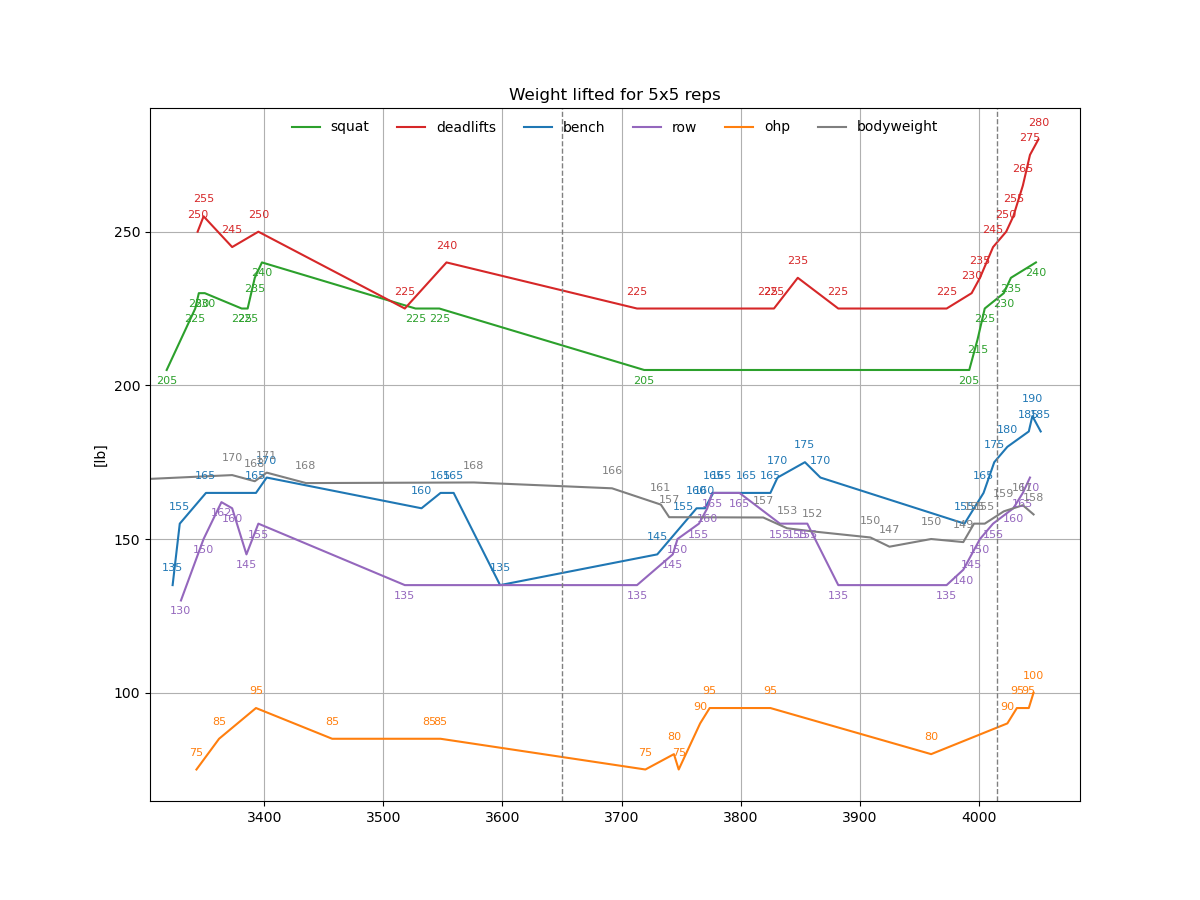
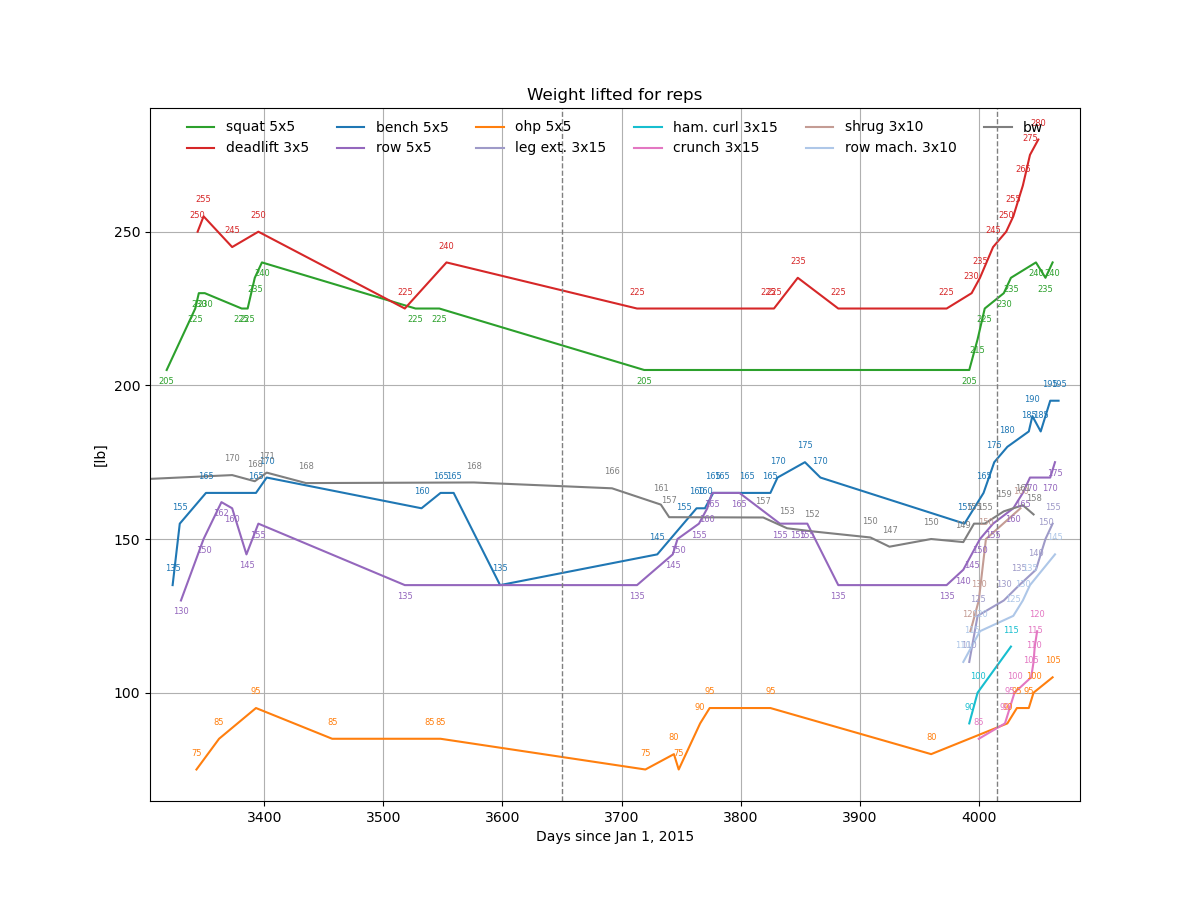
error flag bug fix

diff --git a/lifting.py b/lifting.py
@@ -114,6 +114,8 @@ squats={
     "Jan 6 2026":5*5*230,
     "Jan 12 2026":5*5*235,
     "Feb 2 2026":5*5*240,
+    "Feb 10 2026":5*5*235,
+    "Feb 16 2026":5*5*240,
     }
 squats5x5={
     "Feb 2 2024":(5*5*205)/25,
@@ -133,6 +135,8 @@ squats5x5={
     "Jan 6 2026":5*5*230/25,
     "Jan 12 2026":5*5*235/25,
     "Feb 2 2026":5*5*240/25,
+    "Feb 10 2026":5*5*235/25,
+    "Feb 16 2026":5*5*240/25,
     }
 
 bench={
@@ -216,6 +220,7 @@ bench={
     "Jan 27 2026":5*5*185,
     "Jan 30 2026":5*5*190,
     "Feb 06 2026":5*5*185,
+    "Feb 14 2026":5*5*195,
     }
 bench5x5={
     "Feb 7 2024":(5*5*135)/25,
@@ -245,6 +250,8 @@ bench5x5={
     "Jan 27 2026":5*5*185/25,
     "Jan 30 2026":5*5*190/25,
     "Feb 06 2026":5*5*185/25,
+    "Feb 14 2026":5*5*195/25,
+    "Feb 21 2026":5*5*195/25,
     }
 
 ohp={
@@ -331,6 +338,7 @@ ohp={
     "Jan 17 2026":5*5*95,
     "Jan 27 2026":5*5*95,
     "Jan 31 2026":5*5*100,
+    "Feb 16 2026":5*5*105,
     }
 ohp5x5={
     "Feb 27 2024":(5*5*75)/25, #doctored this number a bit
@@ -350,6 +358,7 @@ ohp5x5={
     "Jan 17 2026":5*5*95/25,
     "Jan 27 2026":5*5*95/25,
     "Jan 31 2026":5*5*100/25,
+    "Feb 16 2026":5*5*105/25,
     }
 
 deadlifts={
@@ -489,6 +498,8 @@ row={
     "Jan 14 2026":5*5*160,
     "Jan 22 2026":5*5*165,
     "Jan 28 2026":5*5*170,
+    "Feb 14 2026":5*5*170,
+    "Feb 18 2026":5*5*175,
     }
 row5x5={
     "Feb 14 2024":(5*5*130)/25, #doctored this number a bit
@@ -517,6 +528,8 @@ row5x5={
     "Jan 14 2026":5*5*160/25,
     "Jan 22 2026":5*5*165/25,
     "Jan 28 2026":5*5*170/25,
+    "Feb 14 2026":5*5*170/25,
+    "Feb 18 2026":5*5*175/25,
     }
 
 dips={
@@ -717,6 +730,56 @@ bodyweight={
     "Jan 31 2026":158,
     }
 
+legextension15x3={
+    "Dec 8 2025": 15*3*110/45,
+    "Dec 15 2025": 15*3*125/45,
+    "Jan 6 2026": 15*3*130/45,
+    "Jan 19 2026": 15*3*135/45,
+    "Feb 2 2026": 15*3*140/45,
+    "Feb 10 2026": 15*3*150/45,
+    "Feb 16 2026": 15*3*155/45,
+    }
+
+hamstringcurl15x3={
+    "Dec 8 2025": 15*3*90/45,
+    "Dec 15 2025": 15*3*100/45,
+    "Jan 12 2026": 15*3*115/45,
+    }
+
+# lateralraise15x3={
+#     "Dec 8 2025": 15*3*15/45, #fake number, but approx equivalent strength
+#     "Dec 25 2025": 15*3*20/45,
+#     "Jan 31 2026": 15*3*24/45,
+#     }
+
+cablecrunch15x3={
+    "Dec 16 2025": 15*3*85/45,
+    "Jan 7 2026": 15*3*90/45,
+    "Jan 11 2026": 15*3*95/45,
+    "Jan 15 2026": 15*3*100/45,
+    "Jan 29 2026": 15*3*105/45,
+    "Jan 31 2026": 15*3*110/45,
+    "Feb 1 2026": 15*3*115/45,
+    "Feb 3 2026": 15*3*120/45,
+    }
+
+shrugs10x3={
+    "Dec 9 2025": 10*3*120/30,
+    "Dec 16 2025": 10*3*130/30,
+    "Dec 22 2025": 10*3*150/30,
+    "Jan 20 2026": 10*3*160/30,
+    }
+rowmachine10x3={
+    "Dec 3 2025": 10*3*110/30,
+    "Dec 10 2025": 10*3*115/30,
+    "Dec 17 2025": 10*3*120/30,
+    "Jan 14 2026": 10*3*125/30,
+    "Jan 22 2026": 10*3*130/30,
+    "Jan 28 2026": 10*3*135/30,
+    "Jan 28 2026": 10*3*135/30,
+    "Feb 18 2026": 10*3*145/30,
+    }
+
 xrange=[3+365*9,170+365*11]
 colours=['#2ca02c','#d62728','#1f77b4','#9467bd','#ff7f0e','#7f7f7f','#9e9ac8','#17becf','#8c564b']
 
@@ -821,13 +884,25 @@ plt.show()
 f, ax = plt.subplots(1, 1, figsize=(12, 9))
 plt.subplots_adjust(hspace=0.7)
 xrange=[19+365*9,70+365*11]
-colours=['#2ca02c','#d62728','#1f77b4','#9467bd','#ff7f0e','#7f7f7f','#9e9ac8','#17becf','#8c564b']
-ax.plot(date_nums(squats5x5.keys()),squats5x5.values(),label='squat',color=colours[0])
-ax.plot(date_nums(deadlifts5x5.keys()),deadlifts5x5.values(),label='deadlifts',color=colours[1])
-ax.plot(date_nums(bench5x5.keys()),bench5x5.values(),label='bench',color=colours[2])
-ax.plot(date_nums(row5x5.keys()),row5x5.values(),label='row',color=colours[3])
-ax.plot(date_nums(ohp5x5.keys()),ohp5x5.values(),label='ohp',color=colours[4])
-ax.plot(date_nums(bodyweight.keys()),bodyweight.values(),label='bodyweight',color=colours[5])
+# colours=['#2ca02c','#d62728','#1f77b4','#9467bd','#ff7f0e','#7f7f7f','#9e9ac8','#17becf','#8c564b']
+colours = [
+    '#2ca02c', '#d62728', '#1f77b4', '#9467bd', '#ff7f0e',
+    '#7f7f7f', '#9e9ac8', '#17becf', '#8c564b',
+    '#e377c2', '#c49c94', '#aec7e8', '#ff9896', '#98df8a',
+    '#bcbd22'
+]
+ax.plot(date_nums(squats5x5.keys()),squats5x5.values(),label='squat 5x5',color=colours[0])
+ax.plot(date_nums(deadlifts5x5.keys()),deadlifts5x5.values(),label='deadlift 3x5',color=colours[1])
+ax.plot(date_nums(bench5x5.keys()),bench5x5.values(),label='bench 5x5',color=colours[2])
+ax.plot(date_nums(row5x5.keys()),row5x5.values(),label='row 5x5',color=colours[3])
+ax.plot(date_nums(ohp5x5.keys()),ohp5x5.values(),label='ohp 5x5',color=colours[4])
+ax.plot(date_nums(legextension15x3.keys()),legextension15x3.values(),label='leg ext. 3x15',color=colours[6])
+ax.plot(date_nums(hamstringcurl15x3.keys()),hamstringcurl15x3.values(),label='ham. curl 3x15',color=colours[7])
+# ax.plot(date_nums(lateralraise15x3.keys()),lateralraise15x3.values(),label='lateral raise',color=colours[8])
+ax.plot(date_nums(cablecrunch15x3.keys()),cablecrunch15x3.values(),label='crunch 3x15',color=colours[9])
+ax.plot(date_nums(shrugs10x3.keys()),shrugs10x3.values(),label='shrug 3x10',color=colours[10])
+ax.plot(date_nums(rowmachine10x3.keys()),rowmachine10x3.values(),label='row mach. 3x10',color=colours[11])
+ax.plot(date_nums(bodyweight.keys()),bodyweight.values(),label='bw',color=colours[5])
 ax.axvline(x=365, linestyle='--', linewidth=1, color='grey')
 ax.axvline(x=365*2, linestyle='--', linewidth=1, color='grey')
 ax.axvline(x=365*3, linestyle='--', linewidth=1, color='grey')
@@ -840,22 +915,35 @@ ax.axvline(x=365*9, linestyle='--', linewidth=1, color='grey')
 ax.axvline(x=365*10, linestyle='--', linewidth=1, color='grey')
 ax.axvline(x=365*11, linestyle='--', linewidth=1, color='grey')
 ax.set_ylabel("[lb]")
+ax.set_xlabel("Days since Jan 1, 2015")
 # ax.legend(loc="lower right")
 ax.legend(loc="upper center",frameon=False,ncol=6)
 if 'xrange' in locals() or 'xrange' in globals():
     ax.set_xlim(xrange)
-ax.set_title("Weight lifted for 5x5 reps")
+ax.set_title("Weight lifted for reps")
 ax.grid(True)
 for x, y in zip(date_nums(squats5x5.keys()), squats5x5.values()):
-    ax.annotate(int(y), (x, y), textcoords="offset points", xytext=(0,-10), ha='center', fontsize=8,color=colours[0])
+    ax.annotate(int(y), (x, y), textcoords="offset points", xytext=(0,-10), ha='center', fontsize=6,color=colours[0])
 for x, y in zip(date_nums(deadlifts5x5.keys()), deadlifts5x5.values()):
-    ax.annotate(int(y), (x, y), textcoords="offset points", xytext=(0,10), ha='center', fontsize=8,color=colours[1])
+    ax.annotate(int(y), (x, y), textcoords="offset points", xytext=(0,10), ha='center', fontsize=6,color=colours[1])
 for x, y in zip(date_nums(bench5x5.keys()), bench5x5.values()):
-    ax.annotate(int(y), (x, y), textcoords="offset points", xytext=(0,10), ha='center', fontsize=8,color=colours[2])
+    ax.annotate(int(y), (x, y), textcoords="offset points", xytext=(0,10), ha='center', fontsize=6,color=colours[2])
 for x, y in zip(date_nums(row5x5.keys()), row5x5.values()):
-    ax.annotate(int(y), (x, y), textcoords="offset points", xytext=(0,-10), ha='center', fontsize=8,color=colours[3])
+    ax.annotate(int(y), (x, y), textcoords="offset points", xytext=(0,-10), ha='center', fontsize=6,color=colours[3])
 for x, y in zip(date_nums(ohp5x5.keys()), ohp5x5.values()):
-    ax.annotate(int(y), (x, y), textcoords="offset points", xytext=(0,10), ha='center', fontsize=8,color=colours[4])
+    ax.annotate(int(y), (x, y), textcoords="offset points", xytext=(0,10), ha='center', fontsize=6,color=colours[4])
+for x, y in zip(date_nums(legextension15x3.keys()), legextension15x3.values()):
+    ax.annotate(int(y), (x, y), textcoords="offset points", xytext=(0,10), ha='center', fontsize=6,color=colours[6])
+for x, y in zip(date_nums(hamstringcurl15x3.keys()), hamstringcurl15x3.values()):
+    ax.annotate(int(y), (x, y), textcoords="offset points", xytext=(0,10), ha='center', fontsize=6,color=colours[7])
+# for x, y in zip(date_nums(lateralraise15x3.keys()), lateralraise15x3.values()):
+#     ax.annotate(int(y), (x, y), textcoords="offset points", xytext=(0,10), ha='center', fontsize=6,color=colours[8])
+for x, y in zip(date_nums(cablecrunch15x3.keys()), cablecrunch15x3.values()):
+    ax.annotate(int(y), (x, y), textcoords="offset points", xytext=(0,10), ha='center', fontsize=6,color=colours[9])
+for x, y in zip(date_nums(shrugs10x3.keys()), shrugs10x3.values()):
+    ax.annotate(int(y), (x, y), textcoords="offset points", xytext=(0,10), ha='center', fontsize=6,color=colours[10])
+for x, y in zip(date_nums(rowmachine10x3.keys()), rowmachine10x3.values()):
+    ax.annotate(int(y), (x, y), textcoords="offset points", xytext=(0,10), ha='center', fontsize=6,color=colours[11])
 for x, y in zip(date_nums(bodyweight.keys()), bodyweight.values()):
-    ax.annotate(int(y), (x, y), textcoords="offset points", xytext=(0,10), ha='center', fontsize=8,color=colours[5])
+    ax.annotate(int(y), (x, y), textcoords="offset points", xytext=(0,10), ha='center', fontsize=6,color=colours[5])
 plt.savefig("lifting.png")

diff --git a/src/LMRRfactory/generate.py b/src/LMRRfactory/generate.py
@@ -379,7 +379,7 @@ class makeYAML:
             mech_species = {s.upper() for s in self.mech_obj.species_names}
             eq_no_tb = re.sub(r'\(\+\w+\)', '', normalized_eq)
             tokens = re.split(r'\s*(?:<=>|=>|<=|=|\+)\s*', eq_no_tb)
-            eq_species = [t.strip() for t in tokens if t.strip()]
+            eq_species = [re.sub(r'^\d+\s*', '', t).strip() for t in tokens if t.strip()]
             missing = [s for s in eq_species if s.upper() not in mech_species]
             if missing:
                 raise ValueError(
